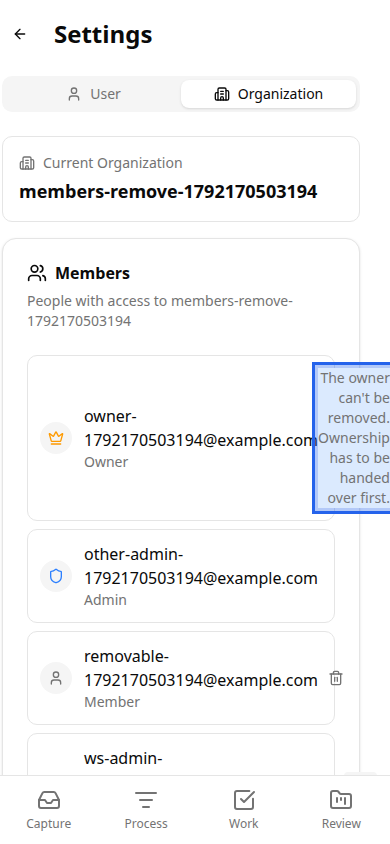
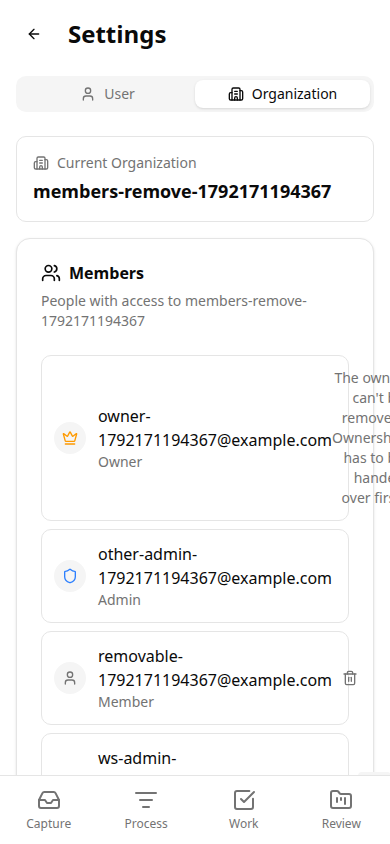
Address PR 198 review: parse helpers, owner copy, distinct shots.
Replace create-user select casts with parse helpers. Admin change-role
OWNER_MUST_TRANSFER now says to use Make owner; in-app leave still asks
an app admin. Settings imports the shared cannot-remove message. Drop
duplicate non-member shots; frame the bot row and the owner-remove copy
so those walkthroughs are not byte-identical.

diff --git a/apps/admin/src/routes/_authenticated/organizations.$orgId.tsx b/apps/admin/src/routes/_authenticated/organizations.$orgId.tsx
@@ -20,6 +20,7 @@ import {
   DialogTrigger,
 } from '@yoink/ui-base/components/dialog';
 import { tsrAdmin } from '@/api/client';
+import { parseCreateUserKind, parseCreateUserRole } from '@/lib/parse-create-user-fields';
 import { isFetchError } from '@ts-rest/react-query/v5';
 import { WifiOff, Mail, UserPlus } from 'lucide-react';
 import { toast } from 'sonner';
@@ -440,7 +441,12 @@ function OrganizationDetailPage() {
                       id="createUserKind"
                       className="flex h-10 w-full rounded-md border border-input bg-background px-3 py-2 text-sm"
                       value={createUserKind}
-                      onChange={(e) => setCreateUserKind(e.target.value as 'human' | 'agent')}
+                      onChange={(e) => {
+                        const kind = parseCreateUserKind(e.target.value);
+                        if (kind) {
+                          setCreateUserKind(kind);
+                        }
+                      }}
                     >
                       <option value="human">Human</option>
                       <option value="agent">Bot</option>
@@ -452,7 +458,12 @@ function OrganizationDetailPage() {
                       id="createUserRole"
                       className="flex h-10 w-full rounded-md border border-input bg-background px-3 py-2 text-sm"
                       value={createUserRole}
-                      onChange={(e) => setCreateUserRole(e.target.value as 'member' | 'admin')}
+                      onChange={(e) => {
+                        const role = parseCreateUserRole(e.target.value);
+                        if (role) {
+                          setCreateUserRole(role);
+                        }
+                      }}
                     >
                       <option value="member">Member</option>
                       <option value="admin">Admin</option>

diff --git a/packages/acceptance-tests/src/use-cases/workspace-owner.test.ts b/packages/acceptance-tests/src/use-cases/workspace-owner.test.ts
@@ -127,10 +127,6 @@ usingDrivers(['playwright'] as const, (ctx) => {
           story: WALKTHROUGH_STORY,
           step: 'admin_before_no_owner',
         });
-        await ctx.admin.saveWalkthroughScreenshot({
-          story: WALKTHROUGH_STORY,
-          step: 'non_member_no_make_owner',
-        });
 
         await ctx.admin.makeOwner(justin.id);
         await ctx.admin.shouldSeeMemberRole(justin.id, 'owner');
@@ -156,7 +152,7 @@ usingDrivers(['playwright'] as const, (ctx) => {
 
         await ctx.admin.shouldNotSeeMakeAdmin(lane.id);
         await ctx.admin.shouldNotSeeMakeOwner(lane.id);
-        await ctx.admin.revealMember(lane.id);
+        await ctx.admin.frameMember(lane.id);
         await ctx.admin.saveWalkthroughScreenshot({
           story: WALKTHROUGH_STORY,
           step: 'bot_row_no_buttons',
@@ -228,6 +224,7 @@ usingDrivers(['playwright'] as const, (ctx) => {
           story: WALKTHROUGH_STORY,
           step: 'admin_members_no_remove',
         });
+        await workspaceAdmin.frameOwnerCannotBeRemoved();
         await workspaceAdmin.saveWalkthroughScreenshot({
           story: WALKTHROUGH_STORY,
           step: 'owner_cannot_be_removed',

diff --git a/apps/api/src/access/domain/organization-errors.ts b/apps/api/src/access/domain/organization-errors.ts
@@ -1,4 +1,15 @@
+import {
+  OWNER_CANNOT_BE_REMOVED_MESSAGE,
+  OWNER_MUST_TRANSFER_MAKE_OWNER_MESSAGE,
+  OWNER_MUST_TRANSFER_MESSAGE,
+} from '@yoink/api-contracts';
 import type { UserNotFoundError, UserServiceError } from './user-errors.js';
+
+export {
+  OWNER_CANNOT_BE_REMOVED_MESSAGE,
+  OWNER_MUST_TRANSFER_MAKE_OWNER_MESSAGE,
+  OWNER_MUST_TRANSFER_MESSAGE,
+};
 
 // ============================================================================
 // Organization Storage Errors
@@ -144,9 +155,6 @@ export type OwnerMustTransferError = {
   readonly message: string;
 };
 
-export const OWNER_MUST_TRANSFER_MESSAGE =
-  'Transfer ownership first. Ask an admin of the whole app to change the owner.';
-
 export const ownerMustTransferError = (
   organizationId: string,
   userId: string
@@ -164,9 +172,6 @@ export type OwnerCannotBeRemovedError = {
   readonly userId: string;
   readonly message: string;
 };
-
-export const OWNER_CANNOT_BE_REMOVED_MESSAGE =
-  "The owner can't be removed. Ownership has to be handed over first.";
 
 export const ownerCannotBeRemovedError = (
   organizationId: string,

diff --git a/apps/web/src/components/members-section.tsx b/apps/web/src/components/members-section.tsx
@@ -14,6 +14,7 @@ import { Input } from '@yoink/ui-base/components/input';
 import { Label } from '@yoink/ui-base/components/label';
 import { listMembers, removeMember, mintAgent, memberLabel, type Member } from '@/api/auth';
 import { tsrOrganizations } from '@/api/client';
+import { OWNER_CANNOT_BE_REMOVED_MESSAGE } from '@yoink/api-contracts';
 
 const errorBodyMessage = (body: unknown): string | null => {
   if (
@@ -221,7 +222,7 @@ export function MembersSection({
                           className="max-w-[14rem] text-right text-sm text-muted-foreground"
                           data-owner-cannot-remove=""
                         >
-                          The owner can&apos;t be removed. Ownership has to be handed over first.
+                          {OWNER_CANNOT_BE_REMOVED_MESSAGE}
                         </p>
                       ) : null}
                       {canReissue && member.kind === 'agent' && (

diff --git a/packages/api-contracts/src/schemas/organization.ts b/packages/api-contracts/src/schemas/organization.ts
@@ -9,6 +9,18 @@ export const MembershipRoleSchema = z.enum(['owner', 'admin', 'member']);
 
 export type MembershipRole = z.infer<typeof MembershipRoleSchema>;
 
+/** Anyone removing the owner — dedicated, not INSUFFICIENT_PERMISSIONS */
+export const OWNER_CANNOT_BE_REMOVED_MESSAGE =
+  "The owner can't be removed. Ownership has to be handed over first.";
+
+/** Owner leave — reader is a workspace person, not the app admin */
+export const OWNER_MUST_TRANSFER_MESSAGE =
+  'Transfer ownership first. Ask an admin of the whole app to change the owner.';
+
+/** Admin-panel change-role — reader is the app admin */
+export const OWNER_MUST_TRANSFER_MAKE_OWNER_MESSAGE =
+  'Transfer ownership first. Use Make owner on another member.';
+
 // ============================================================================
 // Member
 // ============================================================================

diff --git a/packages/acceptance-testing/src/drivers/playwright/admin.ts b/packages/acceptance-testing/src/drivers/playwright/admin.ts
@@ -158,6 +158,20 @@ export const createPlaywrightAdmin = (deps: PlaywrightAdminDependencies): Admin 
       await memberRow(browserPage(), userId).scrollIntoViewIfNeeded();
     },
 
+    async frameMember(userId: string): Promise<void> {
+      const row = memberRow(browserPage(), userId);
+      await row.scrollIntoViewIfNeeded();
+      await expect(row).toBeVisible();
+      await browserPage().locator('[data-screenshot-focus]').evaluateAll((els) => {
+        for (const el of els) {
+          el.removeAttribute('data-screenshot-focus');
+        }
+      });
+      await row.evaluate((el) => {
+        el.setAttribute('data-screenshot-focus', '');
+      });
+    },
+
     async useMobileViewport(): Promise<void> {
       walkthroughViewport = 'phone';
       const adminPage = await ensureLoggedIn();

diff --git a/apps/api/src/access/domain/decide-change-role.test.ts b/apps/api/src/access/domain/decide-change-role.test.ts
@@ -1,5 +1,6 @@
 import { describe, it, expect } from 'vitest';
 import { decideChangeRole } from './decide-change-role.js';
+import { OWNER_MUST_TRANSFER_MAKE_OWNER_MESSAGE } from './organization-errors.js';
 import type { OrganizationMembership } from './organization-membership.js';
 
 const orgId = '550e8400-e29b-41d4-a716-446655440001';
@@ -67,6 +68,9 @@ describe('decideChangeRole', () => {
       targetKind: 'human',
     });
     expect(result.isErr() && result.error.type).toBe('OWNER_MUST_TRANSFER');
+    if (result.isErr() && result.error.type === 'OWNER_MUST_TRANSFER') {
+      expect(result.error.message).toBe(OWNER_MUST_TRANSFER_MAKE_OWNER_MESSAGE);
+    }
   });
 
   it('refuses promoting a bot to admin', () => {

diff --git a/packages/acceptance-testing/src/drivers/playwright/page-objects.ts b/packages/acceptance-testing/src/drivers/playwright/page-objects.ts
@@ -657,6 +657,15 @@ export class SettingsPage {
     await expect(copy).toHaveText(
       "The owner can't be removed. Ownership has to be handed over first."
     );
+  }
+
+  async frameOwnerCannotBeRemoved(): Promise<void> {
+    const copy = this.page.locator('[data-owner-cannot-remove]');
+    await this.page.locator('[data-screenshot-focus]').evaluateAll((els) => {
+      for (const el of els) {
+        el.removeAttribute('data-screenshot-focus');
+      }
+    });
     await copy.evaluate((el) => {
       el.setAttribute('data-screenshot-focus', '');
     });

diff --git a/apps/api/src/access/domain/decide-change-role.ts b/apps/api/src/access/domain/decide-change-role.ts
@@ -13,6 +13,7 @@ import {
   type CannotAssignOwnerRoleError,
   type LastAdminError,
   type MembershipNotFoundError,
+  OWNER_MUST_TRANSFER_MAKE_OWNER_MESSAGE,
   type OwnerMustTransferError,
 } from './organization-errors.js';
 
@@ -63,7 +64,10 @@ export const decideChangeRole = ({
     membershipsWithRole(members, membership.userId, command.newRole)
   );
   if (ownerCheck.isErr()) {
-    return err(ownerCheck.error);
+    return err({
+      ...ownerCheck.error,
+      message: OWNER_MUST_TRANSFER_MAKE_OWNER_MESSAGE,
+    });
   }
 
   if (

diff --git a/apps/api/src/access/domain/admin-service.test.ts b/apps/api/src/access/domain/admin-service.test.ts
@@ -308,6 +308,11 @@ describe('AdminService', () => {
         role: 'admin',
       });
       expect(demote.isErr() && demote.error.type).toBe('OWNER_MUST_TRANSFER');
+      if (demote.isErr() && demote.error.type === 'OWNER_MUST_TRANSFER') {
+        expect(demote.error.message).toBe(
+          'Transfer ownership first. Use Make owner on another member.'
+        );
+      }
 
       const still = await organizationMembershipStore.findByUserAndOrg(
         created.value.id,

diff --git a/packages/acceptance-testing/src/drivers/http/actor.ts b/packages/acceptance-testing/src/drivers/http/actor.ts
@@ -3408,6 +3408,10 @@ export const createHttpActor = (
       throw new UnsupportedOperationError('shouldSeeOwnerCannotBeRemoved', 'http');
     },
 
+    async frameOwnerCannotBeRemoved(): Promise<void> {
+      throw new UnsupportedOperationError('frameOwnerCannotBeRemoved', 'http');
+    },
+
     async revealMembersSection(): Promise<void> {
       throw new UnsupportedOperationError('revealMembersSection', 'http');
     },

diff --git a/packages/acceptance-testing/src/dsl/admin.ts b/packages/acceptance-testing/src/dsl/admin.ts
@@ -72,6 +72,7 @@ export type Admin = {
   }): Promise<void>;
   shouldSeeCreateUserError(pattern: string | RegExp): Promise<void>;
   revealMember(userId: string): Promise<void>;
+  frameMember(userId: string): Promise<void>;
   useMobileViewport(): Promise<void>;
   useDesktopViewport(): Promise<void>;
   saveWalkthroughScreenshot(input: { story: string; step: string }): Promise<void>;
